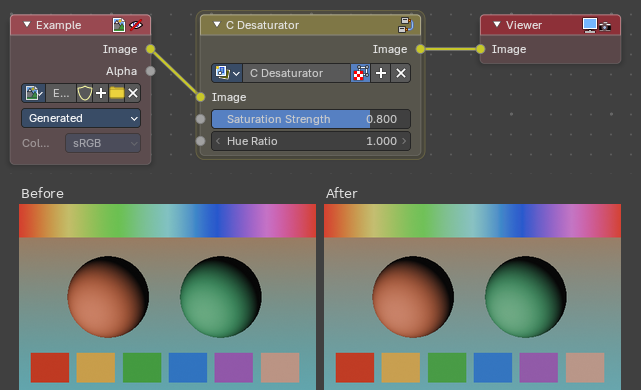
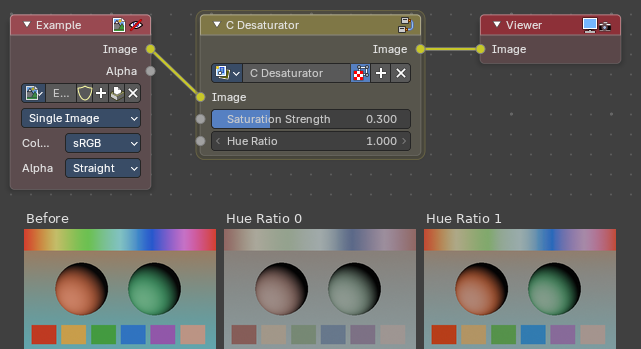
Compositor Library Color: Hue Ratio example, and separate and chained Halftone examples
Claude-Session: https://claude.ai/code/session_01TZ3cKPLjkkQu7A5AvvLPrB

diff --git a/docs2/content/assets/compositor-library.md b/docs2/content/assets/compositor-library.md
@@ -270,7 +270,9 @@ The desaturated image.
 
 ### How to use
 
-Connect an image to Image. In the picture, Saturation Strength is 0.8.
+Connect an image to Image. Saturation Strength sets how much color is removed: 1 leaves the image as it is, and lower values remove more.
+
+Hue Ratio changes which colors lose their saturation. In the picture, Saturation Strength is 0.3. At Hue Ratio 0 every color is desaturated evenly. At Hue Ratio 1 the strongly colored areas stay vivid and the muted areas lose their color.
 
 ![Desaturator in use](/docs2/images/assets/compositor-library/color/desaturator-usage.png)
 
@@ -328,9 +330,11 @@ Black and white dots.
 
 ### How to use
 
-Connect the Distance output of Halftone Pattern to Distance, an image to Foreground, and set Background to white. Connect Color to the next node.
+Connect an image to Foreground and set Background to the color between the dots. Distance decides where the dots are. It is normally connected to the Distance output of Halftone Pattern, as shown in the next section.
 
-![Halftone Color in use](/docs2/images/assets/compositor-library/color/halftone-usage.png)
+In the picture, Distance is a single value (0.5) instead of a pattern, so the image is cut at one brightness: the dark parts of the spheres turn to the Background color. Dots need a Distance that changes across the image.
+
+![Halftone Color in use](/docs2/images/assets/compositor-library/color/halftone-color-usage.png)
 
 ## Halftone Pattern
 
@@ -392,9 +396,19 @@ Coordinates inside each dot.
 
 ### How to use
 
-Use it together with Halftone Color: connect Distance to the Distance input of Halftone Color.
+Halftone Pattern does not need an image. Connect its Distance output to any node that takes a number to see how far each pixel is from the center of its dot. In the picture, Scale is 16 and the Distance output goes straight to the viewer.
 
-![Halftone Pattern in use](/docs2/images/assets/compositor-library/color/halftone-usage.png)
+The Vector output gives the coordinates inside each dot.
+
+![Halftone Pattern in use](/docs2/images/assets/compositor-library/color/halftone-pattern-usage.png)
+
+## Halftone Pattern and Halftone Color together
+
+Halftone Pattern makes the dot grid and Halftone Color colors it. Connect the Distance output of Halftone Pattern to the Distance input of Halftone Color, and connect an image to Foreground. Halftone Color sizes each dot by the brightness of the image: dots are Max Dot Size in the brightest areas and Min Dot Size in the darkest.
+
+Keeping them apart lets you change the grid (Rotation, Scale, Ink Noise) separately from the colors (Foreground, Background and the dot sizes). The Mask output of Halftone Color shows the same dots in black and white.
+
+![Halftone Pattern and Halftone Color together](/docs2/images/assets/compositor-library/color/halftone-chain-usage.png)
 
 ## Simple Saturation
 
